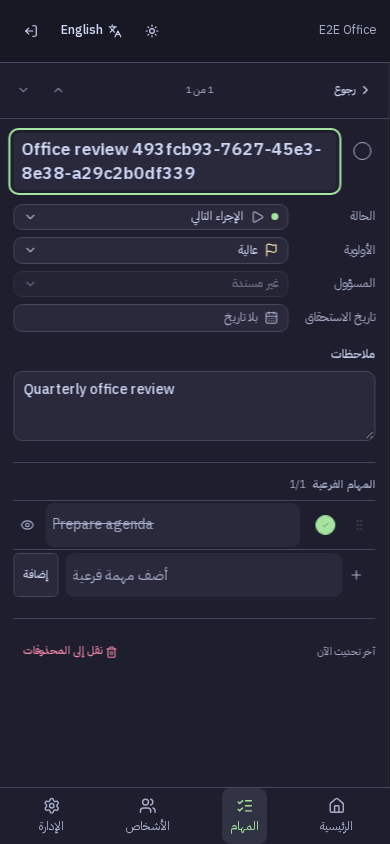
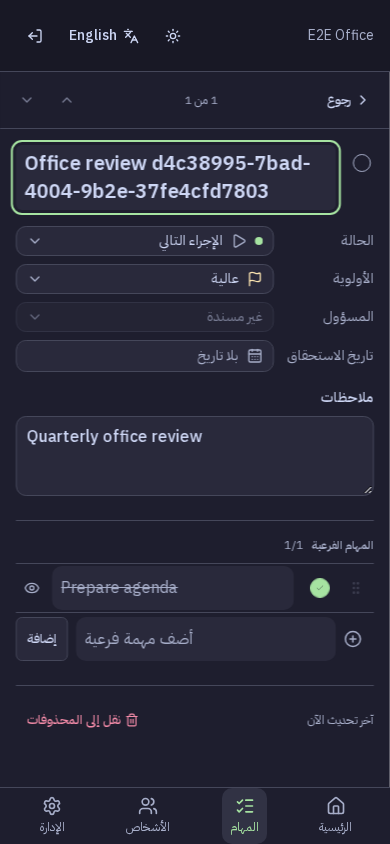
style(ui): 16px base, CirclePlus for Create, one-row count strip, detail skeleton
Base font moves to 16px for a 40+ audience on tablets; the count strip keeps
one row of four on any width so the first task stays above the fold on a
phone; the search icon centres in the field at any height; Create and the
subtask add row use CirclePlus; opening an item shows a placeholder title,
property rows and text block instead of a spinner.

Claude-Session: https://claude.ai/code/session_014g1i8Np87D6CdGoNqyY67b

diff --git a/src/ui/entity/EntityContent.tsx b/src/ui/entity/EntityContent.tsx
@@ -1,11 +1,36 @@
 'use client';
 import { useTranslations } from 'next-intl';
 import { Button } from '@/ui/primitives/button';
-import Loading from '@/ui/layout/Loading';
 import { ErrorPanel } from '@/ui/layout/ErrorPanel';
 import { EntityPanel } from './EntityPanel';
 import type { Entity } from './types';
 import type { Surface } from './EntityControls';
+// The shape of a detail (title, a few property rows, a text block) while the item loads, so the
+// panel reads as arriving rather than empty.
+function EntityDetailSkeleton() {
+  const t = useTranslations('common');
+  const rows = ['a', 'b', 'c', 'd'];
+  return (
+    <div role="status" className="animate-pulse p-4 lg:p-5">
+      <span className="sr-only">{t('loading')}</span>
+      <div aria-hidden className="grid gap-4">
+        <div className="flex items-center gap-3">
+          <span className="size-5 rounded-full bg-surface-raised" />
+          <span className="h-6 w-3/4 rounded bg-surface-raised" />
+        </div>
+        <div className="grid gap-2">
+          {rows.map((row) => (
+            <div key={row} className="grid grid-cols-[5.5rem_minmax(0,1fr)] items-center gap-3">
+              <span className="h-3 w-14 rounded bg-surface-raised" />
+              <span className="h-9 rounded-lg bg-surface-raised" />
+            </div>
+          ))}
+        </div>
+        <span className="h-24 rounded-lg bg-surface-raised" />
+      </div>
+    </div>
+  );
+}
 export function EntityContent<T extends Entity, P extends object, C>({
   config,
   controller: c,
@@ -13,7 +38,7 @@ export function EntityContent<T extends Entity, P extends object, C>({
   const t = useTranslations('common');
   if (c.state.creating)
     return config.renderers.create({ cancel: c.close, pending: c.creating, submit: c.submit });
-  if (c.detail.pending) return <Loading />;
+  if (c.detail.pending) return <EntityDetailSkeleton />;
   if (c.detail.error || !c.detail.data)
     return (
       <div className="grid gap-4 p-6">

diff --git a/src/ui/entity/EntityViews.tsx b/src/ui/entity/EntityViews.tsx
@@ -56,7 +56,7 @@ export function EntityStats<T extends Entity, P extends object, C>({
   const featured = config.filters.views.filter((view) => view.featured);
   if (!featured.length) return null;
   return (
-    <div className="grid grid-cols-[repeat(auto-fit,minmax(6.5rem,1fr))] gap-1 border-b px-3 py-2">
+    <div className="grid grid-cols-4 gap-1 border-b px-2 py-1.5 @lg:px-3 @lg:py-2">
       {featured.map((view) => {
         const value = c.list.counts[view.id] ?? 0;
         const active = c.state.view === view.id;
@@ -66,14 +66,14 @@ export function EntityStats<T extends Entity, P extends object, C>({
             variant="ghost"
             aria-pressed={active}
             className={cn(
-              'h-auto flex-col items-start gap-0 px-2.5 py-1.5',
+              'h-auto min-w-0 flex-col items-start gap-0 px-2 py-1 @lg:px-2.5 @lg:py-1.5',
               active && 'bg-surface-raised',
             )}
             onClick={() => c.navigate({ view: view.id }, true)}
           >
             <span
               className={cn(
-                'text-2xl leading-none font-semibold tabular-nums',
+                'text-xl leading-none font-semibold tabular-nums @lg:text-2xl',
                 value === 0 && 'text-text-muted',
                 value > 0 && view.tone === 'danger' && 'text-danger',
                 value > 0 && view.tone === 'accent' && 'text-accent',
@@ -81,7 +81,7 @@ export function EntityStats<T extends Entity, P extends object, C>({
             >
               {count(value)}
             </span>
-            <span className="mt-1 text-[10px] font-semibold tracking-wider text-text-muted uppercase">
+            <span className="mt-1 w-full truncate text-[10px] font-semibold tracking-wider text-text-muted uppercase">
               {view.label}
             </span>
           </Button>

diff --git a/src/ui/entity/EntityControls.tsx b/src/ui/entity/EntityControls.tsx
@@ -1,6 +1,6 @@
 'use client';
 import { useTranslations } from 'next-intl';
-import { SlidersHorizontal, ListChecks, PanelLeftClose, Plus } from 'lucide-react';
+import { SlidersHorizontal, ListChecks, PanelLeftClose, CirclePlus } from 'lucide-react';
 import { Button } from '@/ui/primitives/button';
 import { EntitySearch } from './EntitySearch';
 import { EntityBulkBar } from './EntityBulkBar';
@@ -38,7 +38,7 @@ export function EntityToolbar<T extends Entity, P extends object, C>({
           <EntityToolbarSummary config={config} controller={c} />
         </div>
         <Button className="@2xl:order-last" onClick={() => c.navigate({ new: '1' })}>
-          <Plus className="size-4" />
+          <CirclePlus className="size-5" strokeWidth={2.25} />
           {t('create')}
         </Button>
         <EntityToolbarControls config={config} controller={c} />

diff --git a/src/modules/tasks/ui/Subtasks.tsx b/src/modules/tasks/ui/Subtasks.tsx
@@ -1,7 +1,7 @@
 'use client';
 import { useState } from 'react';
 import { useTranslations } from 'next-intl';
-import { Plus, GripVertical } from 'lucide-react';
+import { CirclePlus, GripVertical } from 'lucide-react';
 import { Button } from '@/ui/primitives/button';
 import { Input } from '@/ui/primitives/input';
 import { ErrorPanel } from '@/ui/layout/ErrorPanel';
@@ -163,7 +163,7 @@ function AddSubtask({ parent }: { parent: TaskDetail }) {
           void create(event.currentTarget);
         }}
       >
-        <Plus className="ms-3.5 size-4 shrink-0 text-text-muted" aria-hidden />
+        <CirclePlus className="ms-3 size-4.5 shrink-0 text-text-muted" aria-hidden />
         <Input
           name="title"
           dir="auto"

diff --git a/src/ui/entity/EntitySearch.tsx b/src/ui/entity/EntitySearch.tsx
@@ -21,7 +21,7 @@ export function EntitySearch({
   }, [value, query, navigate]);
   return (
     <div className="relative min-w-0 flex-1">
-      <Search className="pointer-events-none absolute start-3 top-4 size-4 text-text-muted" />
+      <Search className="pointer-events-none absolute start-3 top-1/2 size-4 -translate-y-1/2 text-text-muted" />
       <Input
         className="ps-9"
         aria-label={t('search')}

diff --git a/src/ui/tokens.css b/src/ui/tokens.css
@@ -74,8 +74,9 @@
   * {
     border-color: var(--border);
   }
+  /* 16px base: the office reads on tablets and many readers are over forty (docs/05 § Density). */
   html {
-    font-size: 14px;
+    font-size: 16px;
     background: var(--bg);
   }
   /* Both faces are always in the stack: an Arabic title in the English view renders in the

diff --git a/docs/05-ui-guidelines.md b/docs/05-ui-guidelines.md
@@ -6,7 +6,7 @@
 - **Tokens:** `src/ui/tokens.css` defines every color, radius, shadow, and spacing scale as CSS variables under `@theme`. The dark values are Catppuccin Mocha (mantle ground, base surfaces, green accent); the light values are the house sage palette. Semantic names only: `--color-bg`, `--color-surface`, `--color-surface-raised`, `--color-border`, `--color-text`, `--color-text-muted`, `--color-accent`, `--color-success`, `--color-warning`, `--color-danger`, `--color-info`. Light and dark values are both defined; dark is the default.
 - **No raw colors in TSX** (static lint `no-color-literals`). Status colors come from `tone()` helpers mapping an enum to a semantic class.
 - **Typography:** Inter (Latin) and IBM Plex Sans Arabic via `next/font`. Both faces are always in the stack, ordered by `<html lang dir>` (Inter first in LTR, the Arabic face first in RTL), so mixed-script text renders each script in its own face; nothing is applied per element. Mixed-direction fields use `dir="auto"`; inline mixed runs are wrapped in `<bdi>` by the `Text` component so an English acronym inside an Arabic title does not flip punctuation.
-- **Density:** base 14px; list rows 44px single-line; form controls 36px with a pointer and 44px on touch (`pointer: coarse`), so hit areas never drop below 44px where fingers are used; 8px grid. Tinted surfaces for emphasis come from `--color-accent-soft`, `--color-warning-soft`, `--color-danger-soft`; the foreground on each is its matching solid token and both pairs meet 4.5:1 in both themes.
+- **Density:** base 16px (readable for a 40+ audience on tablets); list rows 44px single-line; form controls 36px with a pointer and 44px on touch (`pointer: coarse`), so hit areas never drop below 44px where fingers are used; 8px grid. Tinted surfaces for emphasis come from `--color-accent-soft`, `--color-warning-soft`, `--color-danger-soft`; the foreground on each is its matching solid token and both pairs meet 4.5:1 in both themes.
 - **Icons:** Lucide only. Icon buttons have `aria-label` from i18n.
 - **Theme:** `next-themes`, class attribute, pre-hydration script; per-user setting. Dialog and sheet backdrops use `--color-scrim`, a dark translucent ground in both themes.
 

diff --git a/docs/features/entity-pages.md b/docs/features/entity-pages.md
@@ -69,7 +69,7 @@ Twelve top-level props is the ceiling (`07-coding-guidelines.md`); related optio
 
 - EP-B13 Infinite paging with `fetchNextPage` on scroll; next/prev at the end of the loaded page loads the next page before moving.
 - EP-B14 Grouping renders headers with counts over the loaded rows and, when `meta.counts` provides a group count, the full count in parentheses; collapse state per module in local storage. The selected row is marked with the accent-soft ground and a 3 px start-edge bar.
-- EP-B15 Empty states: no items at all (primary action) versus no matches (clear filters); the module may supply the icon through `emptyState.icon`. While the first page loads the list shows six placeholder rows at row height.
+- EP-B15 Empty states: no items at all (primary action) versus no matches (clear filters); the module may supply the icon through `emptyState.icon`. While the first page loads the list shows six placeholder rows at row height, and while an item loads the detail shows a placeholder title, property rows and text block.
 - EP-B16 Errors: list error panel with retry and request id; detail error inline.
 - EP-B17 Focus: opening detail moves focus to the title; closing returns focus to the row; create returns focus to the new row after submit.
 - EP-B18 Query client is recreated on login and logout; list refetch on focus and every 60 seconds while visible.
